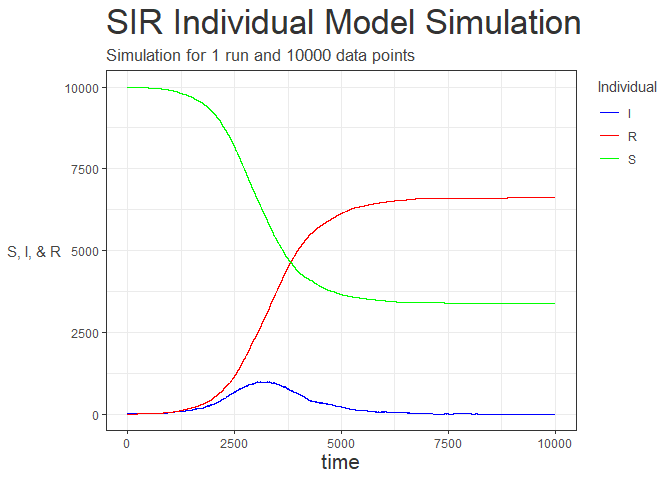
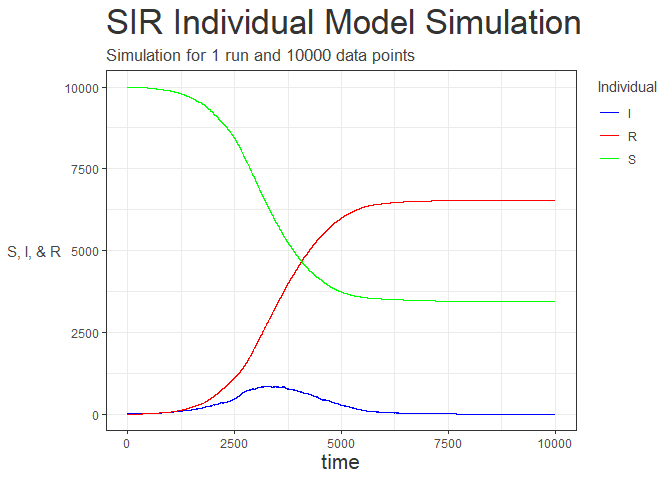
update of Readmes and individual plot.

diff --git a/README.md b/README.md
@@ -73,6 +73,7 @@ step of 0.01 using the same code.
     #>     simulate
 
 <img src="man/figures/README-1run10000pointsindividual-1.png" width="100%" />
-\#\# License
+
+## License
 
 MIT © Imperial College of Science, Technology and Medicine
